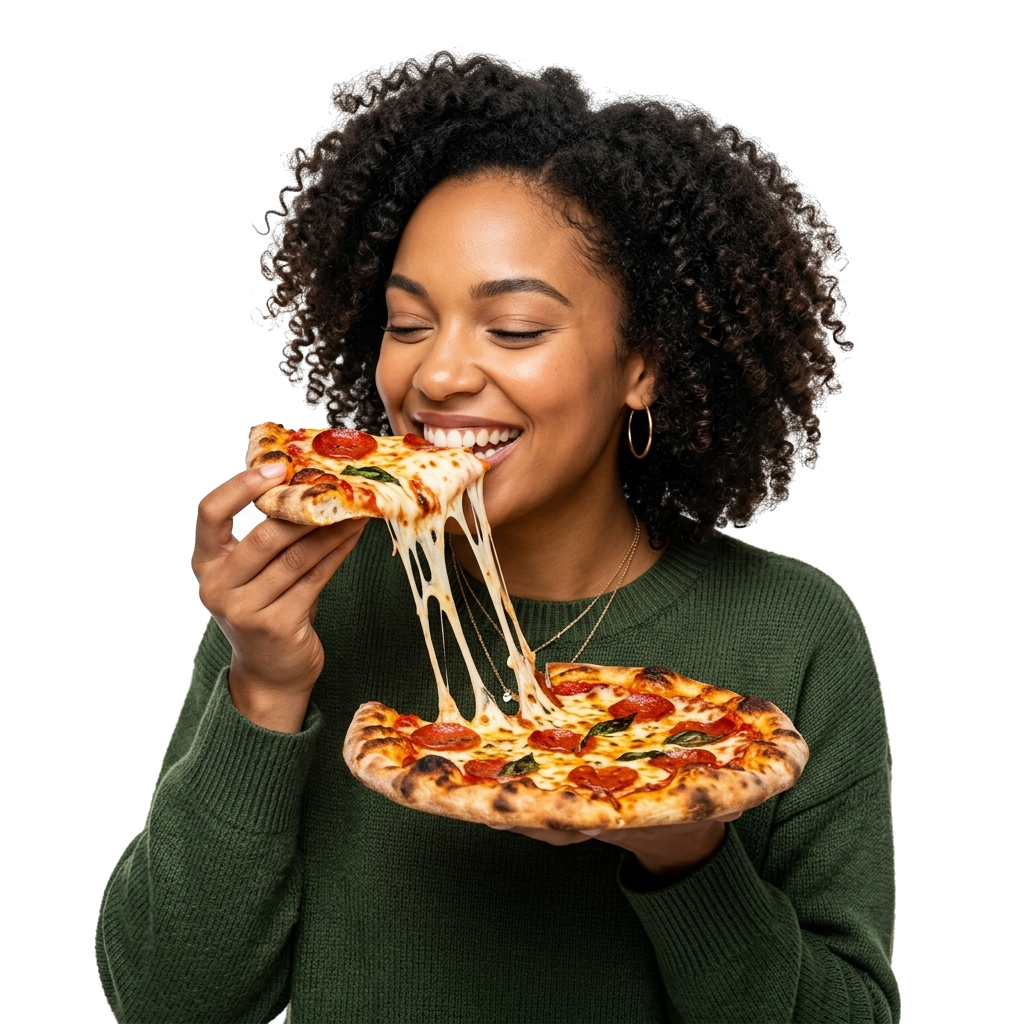
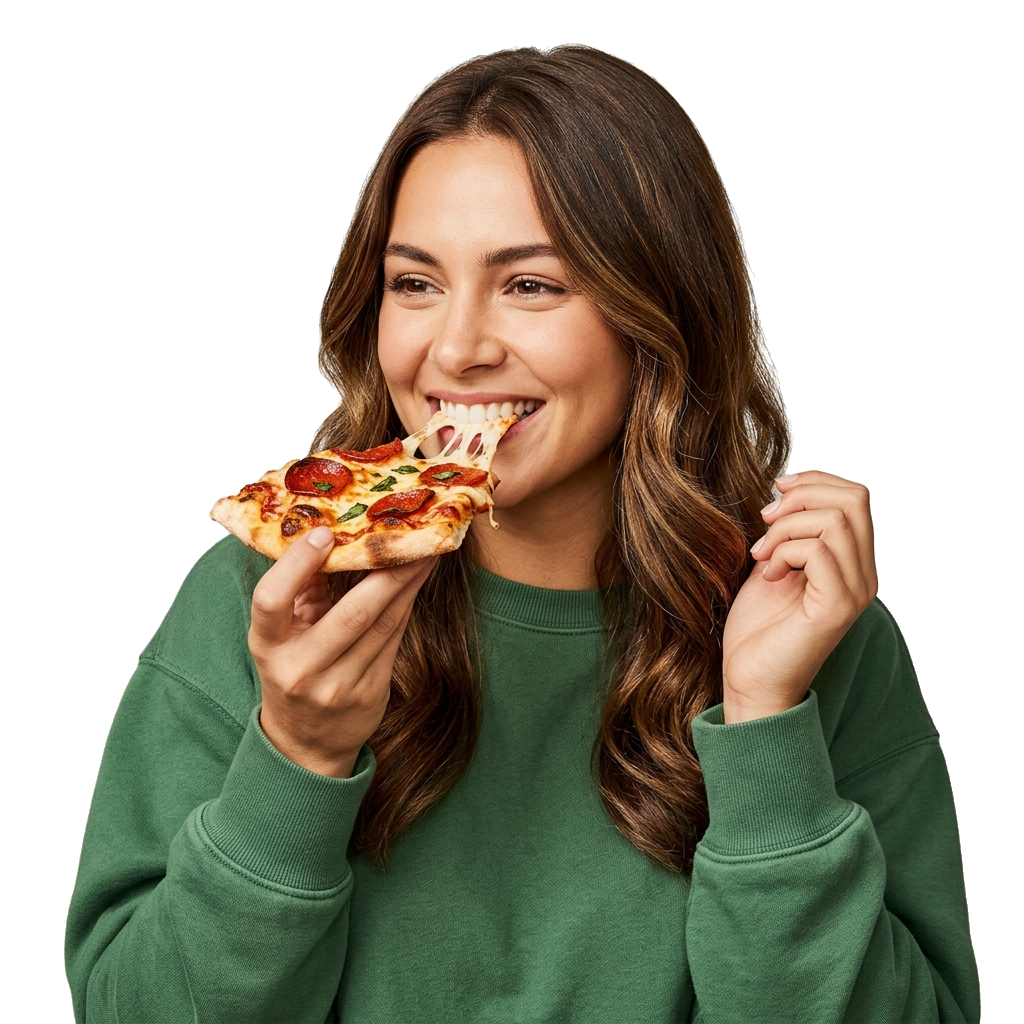
fix: update image asset and version query parameter for woman eating pizza

diff --git a/index.html b/index.html
@@ -514,7 +514,7 @@
               <div class="elementor-element elementor-element-f6ab28f elementor-widget elementor-widget-image"
                 data-id="f6ab28f" data-element_type="widget">
                 <div class="elementor-widget-container"><img width="1024" height="1024"
-                    src="img/kvinne-spiser-pizza-skive.png?v=20261012-hairfix" class="attachment-large size-large wp-image-7973"
+                    src="img/kvinne-spiser-pizza-skive.png?v=20261012-newwoman" class="attachment-large size-large wp-image-7973"
                     alt="Fornøyd kunde som nyter et ferskt stykke pizza med smeltet ost fra Fet Pizza">
                 </div>
               </div>
